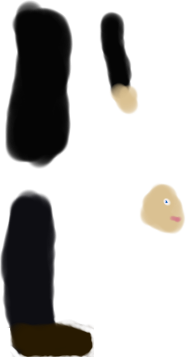
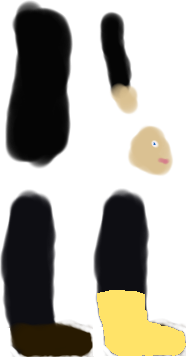
Working on adding wellies. They don't work so good yet though

Changed region(s): [[0.4839, 0.3389, 1.0, 1.0], [0.4839, 0.9552, 0.5108, 0.986]]

diff --git a/Assets/MoveController.cs b/Assets/MoveController.cs
@@ -13,13 +13,22 @@ public class MoveController : MonoBehaviour {
     float left, right, top, controlCount, individualControlWidth, individualControlHeight;
 
 	Object puddle;
+	Object wellies;
+    Object wellyLeg;
+    Object normalLeg;
 
     GameObject[] backgrounds;
     void Start()
     {
 		random = new System.Random(System.DateTime.Now.Millisecond);
 
+        wellyLeg = Resources.Load("jaba_4");
+        normalLeg = Resources.Load("jaba_2");
+
+        //Debug.Log(GameObject.Find("jaba"));
+
         puddle = Resources.Load("PuddlePrefab");
+        puddle = Resources.Load("WelliesPrefab");
 		backgrounds = new GameObject[]
 		{
             GameObject.Find("Floor1"),
@@ -111,7 +120,8 @@ public class MoveController : MonoBehaviour {
 	int playerOldPos = 0;
 	float backgroundScale;
 	float lowestX=0,highestX=0;
-	int puddleSpawnRatePercent = 25;
+	int puddleSpawnRatePercent = 50;
+	int welliesSpawnRatePercent = 25;
 	
 	void newPuddle(Vector3 position, Quaternion rot)
 	{
@@ -119,36 +129,75 @@ public class MoveController : MonoBehaviour {
 	}
 	void newPuddle(float xPos)
 	{
+		Debug.Log("spawning puddle " + xPos);
 		GameObject newPuddle = Instantiate(puddle) as GameObject;
 		newPuddle.transform.position = new Vector3(xPos, newPuddle.transform.position.y, newPuddle.transform.position.z);
 	}
-	void createNewPuddles(int playerCurrentPos)
+	void newWellies(float xPos)
 	{
+		Debug.Log("spawning wellies" + xPos);
+		GameObject newWellies = Instantiate(wellies) as GameObject;
+		newWellies.transform.position = new Vector3(xPos, newWellies.transform.position.y, newWellies.transform.position.z);
+	}
+	void createPuddlesAndDrops(int playerCurrentPos)
+	{
+        bool spawnPuddle, spawnWellies;
+        spawnPuddle = spawnWellies = false;
+
+        if (random.Next(0, 100) < puddleSpawnRatePercent)
+            spawnPuddle = true;
+
+        if (random.Next(0, 100) < welliesSpawnRatePercent)
+            spawnWellies = true;
+
+        float xPos, upperX, lowerX;
+        xPos = upperX = lowerX = 0;
 		if(playerCurrentPos > highestX)
 		{
-			if (random.Next(0, 100) > puddleSpawnRatePercent)
-				return;
 
-			float lowerX = playerCurrentPos * backgroundScale + backgroundScale;
-			//float lowerX = playerCurrentPos * backgroundScale;
-			float upperX = lowerX + backgroundScale;
-			float xPos = random.Next((int)lowerX, (int)upperX);
-			Debug.Log("spawning puddle " + xPos);
-			newPuddle(xPos);
+			lowerX = playerCurrentPos * backgroundScale + backgroundScale;
+			upperX = lowerX + backgroundScale;
 			highestX = playerCurrentPos;
 		}
 		else if(playerCurrentPos < lowestX)
 		{
-			if (random.Next(0, 100) > puddleSpawnRatePercent)
-				return;
-
-			float upperX = playerCurrentPos * backgroundScale;
-			float lowerX = upperX - backgroundScale;
-			float xPos = random.Next((int)lowerX, (int)upperX);
-			Debug.Log("spawning puddle " + xPos);
-			newPuddle(xPos);
+			upperX = playerCurrentPos * backgroundScale;
+			lowerX = upperX - backgroundScale;
 			lowestX = playerCurrentPos;
 		}
+        else
+        {
+            return;
+        }
+        xPos = random.Next((int)lowerX, (int)upperX);
+
+        if (spawnPuddle)
+            newPuddle(xPos); 
+
+
+        float oldX = xPos;
+        xPos = random.Next((int)lowerX, (int)upperX);
+        //If we want to spawn multiple types of things, lets make sure they don't overlap.
+        if(spawnPuddle && spawnWellies)
+        {
+
+            if(Mathf.Abs(oldX - xPos) < 5)
+            {
+                if(xPos > oldX)
+                {
+                    xPos += 5;       
+                }
+                else if(xPos >= oldX)
+                {
+                    xPos -= 5;
+                }
+            }
+            newWellies(xPos);
+        }
+        else if(spawnWellies)
+        {
+            newWellies(xPos);
+        }
 	}
     void endlessMap()
 	{
@@ -162,7 +211,7 @@ public class MoveController : MonoBehaviour {
 		if (playerOldPos == playerCurrentPos)
 			return;
 
-		createNewPuddles(playerCurrentPos);
+		createPuddlesAndDrops(playerCurrentPos);
 
 		Debug.Log("player current position: " + playerCurrentPos);
 
@@ -214,6 +263,7 @@ public class MoveController : MonoBehaviour {
     float lastProgress = 0;
     float lastSinProgress = 0;
 	void Update () {
+        //Debug.Log(parts["leftLeg"].GetComponent<SpriteRenderer>().sprite.ToString());
         getInput();
 		endlessMap();
 
@@ -322,6 +372,11 @@ public class MoveController : MonoBehaviour {
 			Debug.Log("hit puddle");
 			hitPuddle();
 		}
+		if (collider.name == "WelliesPrefab(Clone)")
+		{
+			Debug.Log("hit wellies");
+			hitWellies();
+		}
     }
 
 	void OnTriggerStay2D(Collider2D collider)
@@ -330,6 +385,11 @@ public class MoveController : MonoBehaviour {
 		{
 			Debug.Log("hit puddle");
 			hitPuddle();
+		}
+		if (collider.name == "WelliesPrefab(Clone)")
+		{
+			Debug.Log("hit wellies");
+			hitWellies();
 		}
 	}
 	
@@ -343,6 +403,32 @@ public class MoveController : MonoBehaviour {
 		Destroy(gameObject); 
 	}
 
+    void hitWellies()
+    {
+        Player.wellieUses++;
+        if(!welliesOn)
+        {
+            welliesOn = true;
+            switchBoots();
+        }
+    }
+
+    bool welliesOn = false;
+    void switchBoots()
+    {
+        Sprite sprite;
+        if(welliesOn)
+        {
+            sprite = (Sprite)Sprite.Instantiate(wellyLeg);
+        }
+        else
+        {
+            sprite = (Sprite)Sprite.Instantiate(normalLeg);
+        }
+
+        parts["leftLeg"].GetComponent<SpriteRenderer>().sprite = sprite;
+        parts["rightLeg"].GetComponent<SpriteRenderer>().sprite = sprite;
+    }
 	float puddleHitGracePeriod = 2;
 	float lastPuddleHit = 0;
 	void hitPuddle()
@@ -356,6 +442,11 @@ public class MoveController : MonoBehaviour {
 			else if(Player.wellieUses > 0)
 			{
 				Player.wellieUses--;
+                if(Player.wellieUses == 0)
+                {
+                    welliesOn = false;
+                    switchBoots();
+                }
 			}
 			lastPuddleHit = Time.time;
 		}

diff --git a/Assets/WorldScript.cs b/Assets/WorldScript.cs
@@ -17,7 +17,9 @@ public class WorldScript : MonoBehaviour {
 
 
 	void Start () {
-        dropletsPerSecond = 15;
+		//dropletsPerSecond = 30;
+        dropletsPerSecond = 40;
+		//dropletsPerSecond = 15;
         //dropletsPerSecond = 1;
         droplet = Resources.Load("DropletPrefab");
         //umbrellaPrefab = Resources.Load("umbrella");
